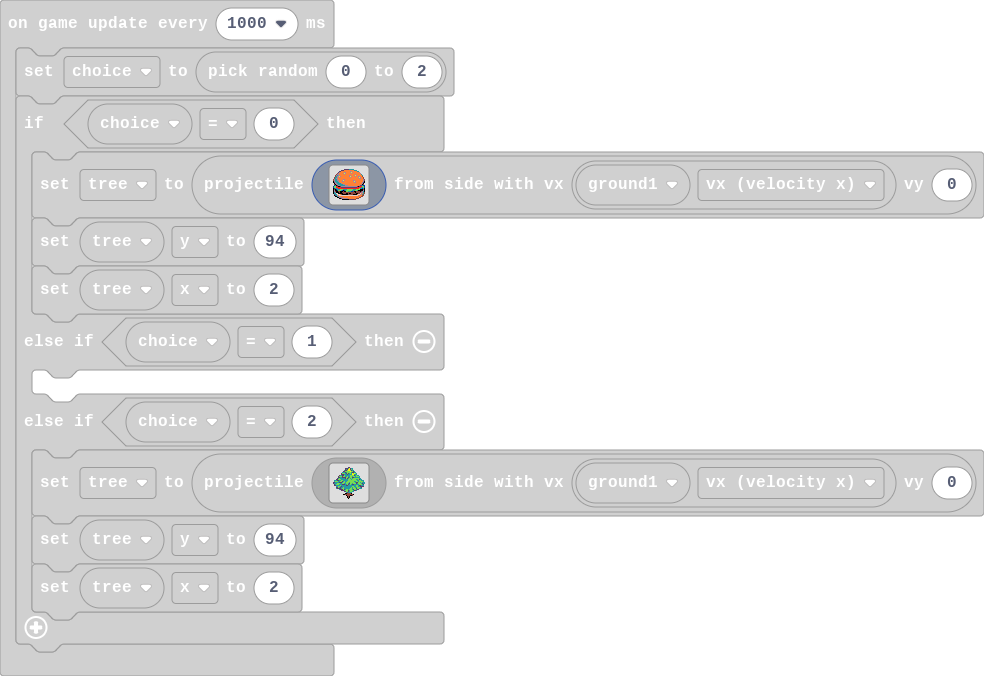
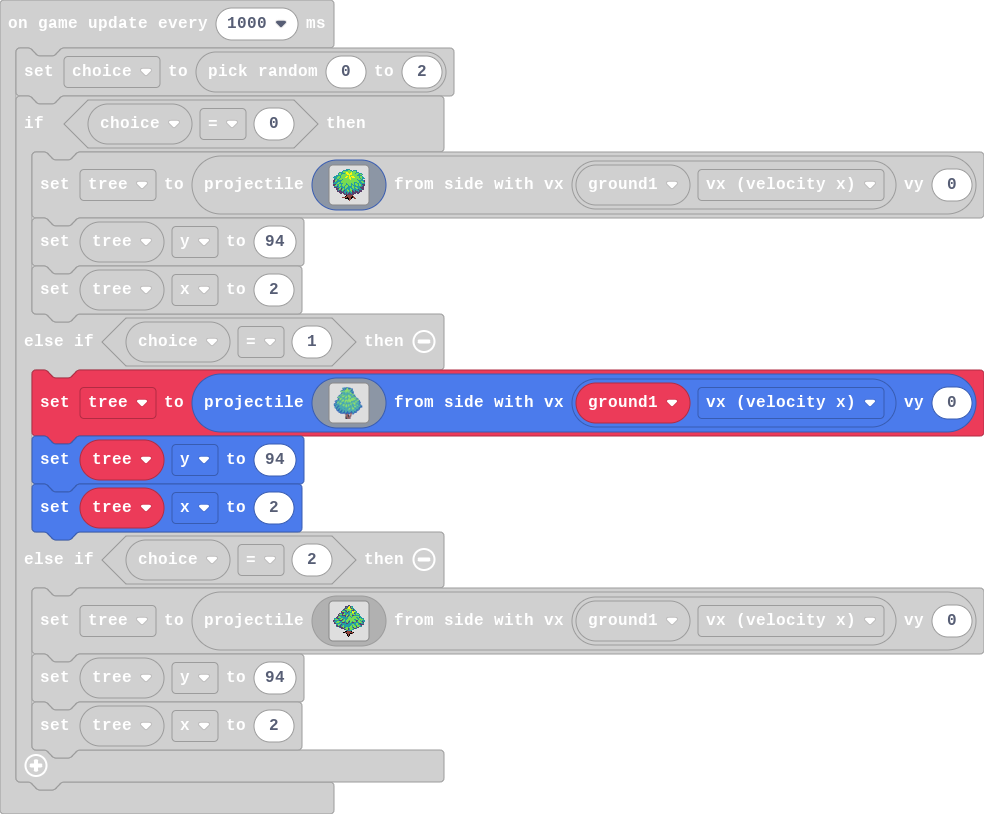
added tree

diff --git a/main.ts b/main.ts
@@ -254,43 +254,87 @@ game.onUpdateInterval(1000, function () {
     choice = randint(0, 2)
     if (choice == 0) {
         tree = sprites.createProjectileFromSide(img`
-            ...........ccccc66666...........
-            ........ccc4444444444666........
-            ......cc444444444bb4444466......
-            .....cb4444bb4444b5b444444b.....
-            ....eb4444b5b44444b44444444b....
-            ...ebb44444b4444444444b444446...
-            ..eb6bb444444444bb444b5b444446..
-            ..e6bb5b44444444b5b444b44bb44e..
-            .e66b4b4444444444b4444444b5b44e.
-            .e6bb444444444444444444444bb44e.
-            eb66b44444bb444444444444444444be
-            eb66bb444b5b44444444bb44444444be
-            fb666b444bb444444444b5b4444444bf
-            fcb666b44444444444444bb444444bcf
-            .fbb6666b44444444444444444444bf.
-            .efbb66666bb4444444444444444bfe.
-            .86fcbb66666bbb44444444444bcc688
-            8772effcbbbbbbbbbbbbbbbbcfc22778
-            87722222cccccccccccccccc22226678
-            f866622222222222222222222276686f
-            fef866677766667777776667777fffef
-            fbff877768f86777777666776fffffbf
-            fbeffeefffeff7766688effeeeefeb6f
-            f6bfffeffeeeeeeeeeeeeefeeeeebb6e
-            f66ddfffffeeeffeffeeeeeffeedb46e
-            .c66ddd4effffffeeeeeffff4ddb46e.
-            .fc6b4dddddddddddddddddddb444ee.
-            ..ff6bb444444444444444444444ee..
-            ....ffbbbb4444444444444444ee....
-            ......ffebbbbbb44444444eee......
-            .........fffffffcccccee.........
-            ................................
+            .............6666...............
+            ..........666667766.6666........
+            .........677777777767776........
+            ......66667775577757777666......
+            .....677666675557557776777666...
+            .....6776777775555577777766776..
+            ...66666777777775777777766666...
+            .66667767777755757555777776776..
+            6666777677775577557555777767766.
+            .6667767777777775577777777767666
+            .c6766777677777775777777677766..
+            cc77666667777777777777777666666c
+            cc76666677777777777777777766776c
+            c6666776777777777777766677666776
+            66667766667776777767767766766666
+            ccc76677677776677766767776776ccc
+            cc7766776777677677676667767766cc
+            .666c676667677766667766666666cc.
+            .ccc66676666776666677677666cccc.
+            ...ccc77c6767666676676677666ccc.
+            ...cc676c7766676677666666c666cc.
+            ....c6cc676c6677677c66c666ccc...
+            ....ccccc6c66667667cc6ccc6ccc...
+            ......ccccc66c66c66cccccccc.....
+            .......cc.cc6c6ccc6cccc.cc......
+            ...........cccccccccc...........
+            .............feeeeee............
+            ............feeeeeefe...........
+            .........eeeeefeeeffee..........
+            ............ffffeef..ee.........
+            ...............fee..............
+            ................e...............
             `, ground1.vx, 0)
         tree.y = 94
         tree.z = 2
     } else if (choice == 1) {
-    	
+        tree = sprites.createProjectileFromSide(img`
+            ................86..................
+            ...........6688867886...............
+            ...........8666877688868............
+            ............868777767768............
+            .........688667777776688............
+            ........67767777777778666...........
+            .........6776667767666868...........
+            ..........866667667677688...........
+            .........8666666666667778...........
+            ........667766666666666676..........
+            .......67766667666776667776.........
+            ......886667776676777666688.........
+            .....67766777667767777666768........
+            ....6776666666777667776666776.......
+            .....8667776667766676677776776......
+            ......8777666666667776777776688.....
+            ....6887766776677677777777776776....
+            ..8866666677767777777777766666778...
+            .86666666777667767777766666776668...
+            ..88677666666777677677666667776668..
+            ..86776677666666666666667776666668..
+            886666677766667666666776677766668...
+            6668666676667766767767766677666668..
+            88866666666777677677667666666776668.
+            .86668866666766776776666667766666668
+            .86688666666666776666667667776666688
+            .668866666666666666666677666666688..
+            ..8866686666666666677667776666668...
+            ...866886666666666677667776666668...
+            ...86886668666666667666666666888....
+            ....88866886686666666666666668......
+            ......86886668666866668666868.......
+            ......88866688668866688866888.......
+            ........8888888688888ce868..........
+            ..............e88e88.ec.8...........
+            ...............eeee..e..............
+            ...............ceef.ce..............
+            ...............ceefcec..............
+            ...............feefce...............
+            ...............fceeec...............
+            ...............ffceec...............
+            `, ground1.vx, 0)
+        tree.y = 94
+        tree.z = 2
     } else if (choice == 2) {
         tree = sprites.createProjectileFromSide(img`
             ...............cc...............
